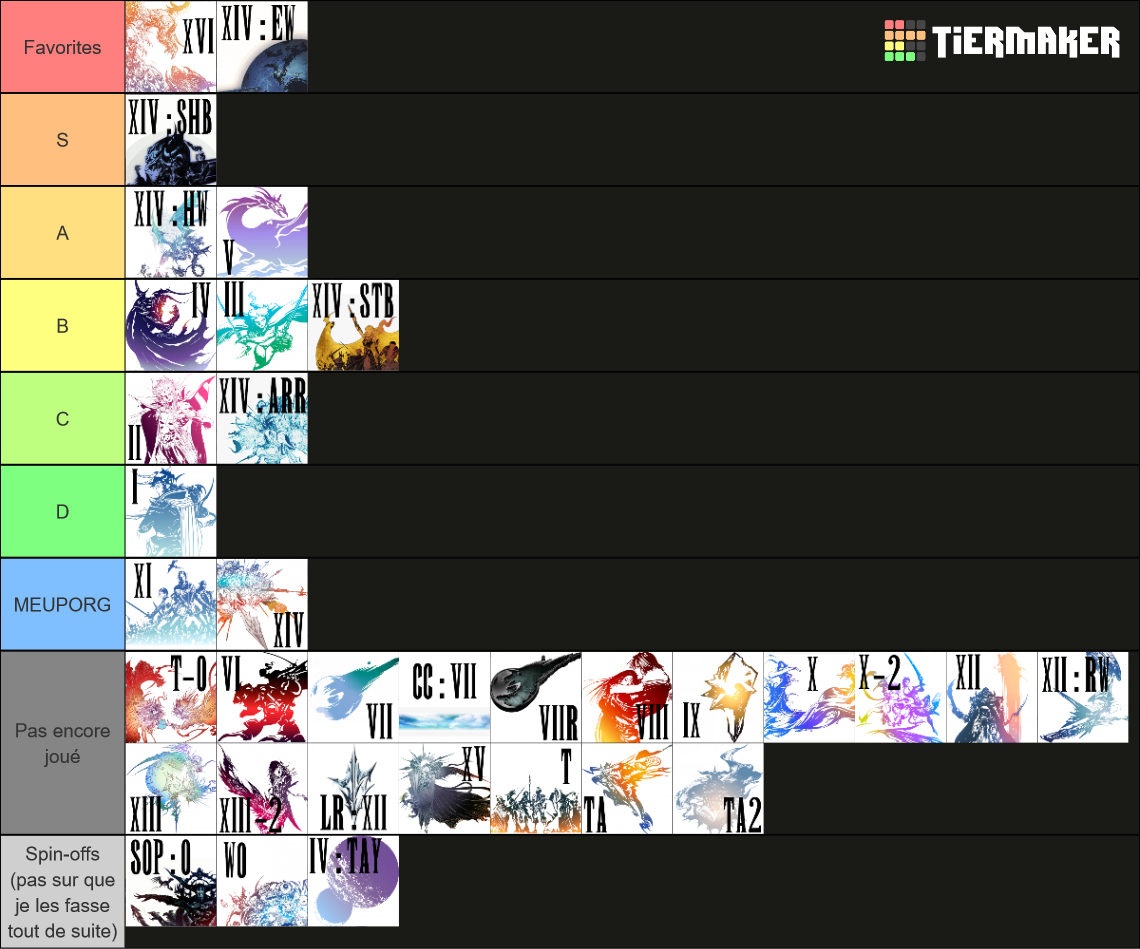
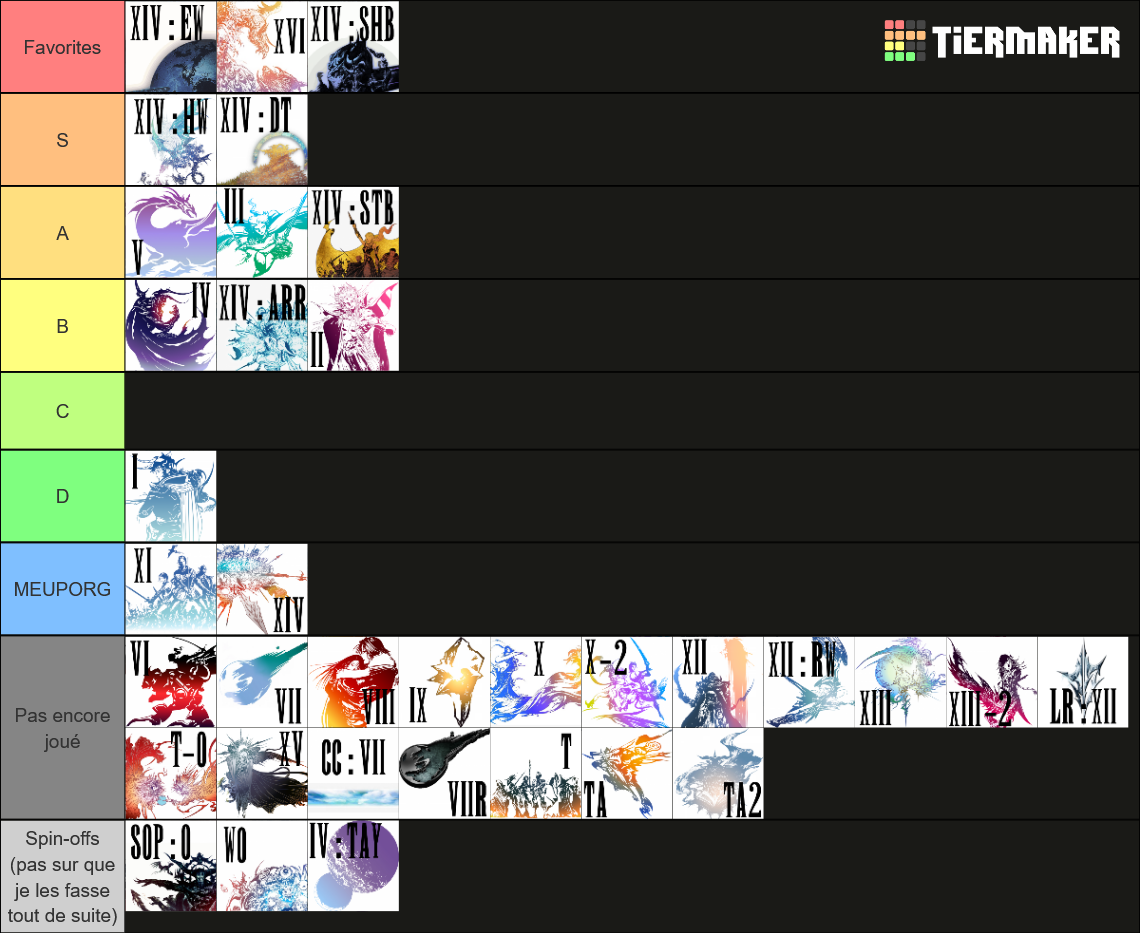
docs: update tier list and add new games

diff --git a/_i18n/fr/_posts/2024-01-30-ff_marathon_summary.md b/_i18n/fr/_posts/2024-01-30-ff_marathon_summary.md
@@ -16,6 +16,10 @@ language: fr
  <a href="{{ english_link }}" >{% t pages.french_article %}</a>
 {% endif %}
 
+> UPDATE: J'ai ajouté des jeux à la liste :)   
+Peut être que je n'ai pas vraiment envie de finir ce marathon finalement.. 
+{: .prompt-info}
+
 Voici la liste complète des jeux auxquels je jouerai pendant ce marathon.
 Quand j'aurai terminé un des épisodes, je mettrai à jour ce sommaire pour y inclure mon temps de jeu.
 
@@ -39,9 +43,13 @@ Quand j'aurai terminé un des épisodes, je mettrai à jour ce sommaire pour y i
 - Final Fantasy XIII-1: Pas encore lancé
 - Final Fantasy XIII-2: Pas encore lancé
 - Final Fantasy XIII-3:  Pas encore lancé
+- **Final Fantasy Type-0: Pas encore lancé**
 - Final Fantasy XIV: 2917h12 J'ai déjà joué au jeu avant ce marathon, j'en parlerai en temps et en heure
 - Final Fantasy XV: Pas encore lancé
 - Final Fantasy XVI: J'ai déjà joué au jeu avant ce marathon, j'en parlerai en temps et en heure
+- **Final Fantasy Tactics:  Pas encore lancé**
+- **Final Fantasy Tactics Advance:  Pas encore lancé**
+- **Final Fantasy Tactics A2: Grimoire of the Rift:  Pas encore lancé**
 
 ### Tier List
 
